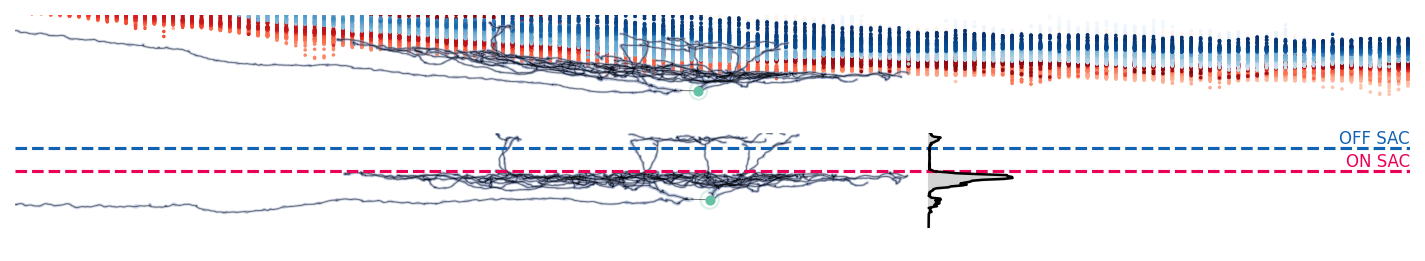
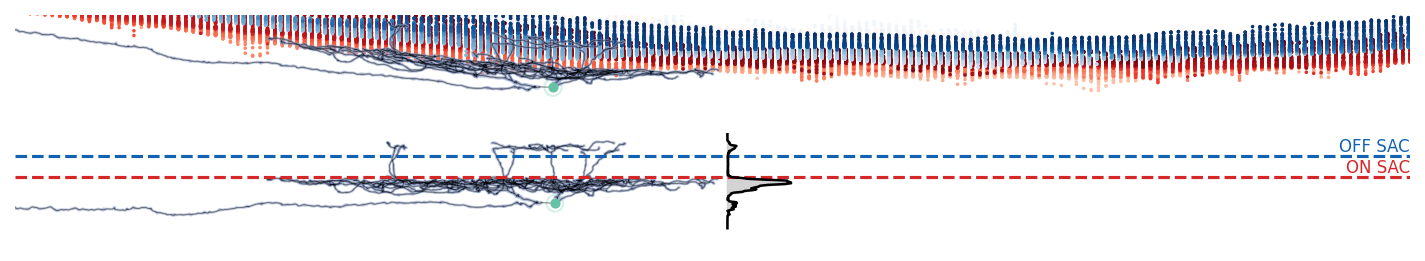
change: addressed systematic shift in warp_arbor and warp_mesh

Changed region(s): [[0.0309, 0.0307, 1.0, 0.3678], [0.0, 0.4904, 0.9881, 0.8276], [0.0, 0.1226, 0.0618, 0.1533]]

diff --git a/pywarper/arbor.py b/pywarper/arbor.py
@@ -276,6 +276,20 @@ def normalize_nodes(
     return normalized_nodes
 
 
+def surface_translation(surface_mapping: dict) -> np.ndarray:
+    """
+    Return the XY offset (np.float64[2]) that the conformal solver added.
+    Works for any mapping produced by build_mapping().
+    """
+    # mean position of the sampled patch before mapping
+    in_centre  = np.array([surface_mapping["sampled_x_idx"].mean(),
+                        surface_mapping["sampled_y_idx"].mean()])
+
+    # mean position of the same vertices after mapping
+    out_centre = surface_mapping["mapped_on"][:, :2].mean(0)
+
+    return np.hstack([in_centre - out_centre, 0])          # Δx, Δy, 0
+
 def warp_arbor(
     skel: Skeleton,
     surface_mapping: dict,
@@ -368,40 +382,44 @@ def warp_arbor(
     if verbose:
         print(f"    done in {time.time() - start_time:.2f} seconds.")
 
-    soma = skel.soma
-    soma.centre = normalized_nodes[0] * voxel_resolution  # soma is at the first node
+    # anchor the nodes to align the soma with the origin
+    xy_shift = surface_translation(surface_mapping)
+    normalized_nodes += xy_shift # shift nodes to align soma
+
+    normalized_soma = skel.soma
+    normalized_soma.centre = normalized_nodes[0] * voxel_resolution  # soma is at the first node
 
     skel_norm = Skeleton(
-        soma   = soma,                     
+        soma   = normalized_soma,
         nodes  = normalized_nodes * voxel_resolution,
         edges  = skel.edges,      # same connectivity
         radii  = skel.radii,      # same radii dict
         ntype  = skel.ntype,      # same node types (if any) 
     )
 
-
     z_profile = get_zprofile(skel_norm, z_window=zprofile_extends, nbins=zprofile_nbins)
     xy_profile = get_xyprofile(
         skel_norm, xy_window=xyprofile_extends, nbins=xyprofile_nbins, sigma_bins=xyprofile_smooth
     )
 
-    skel_norm.extra = {          # keep the pre-normed nodes for reference
-        "warped_nodes": warped_nodes * voxel_resolution,
+    skel_norm.extra = {          
+        "warped_nodes": warped_nodes * voxel_resolution, # keep the pre-normed nodes for reference
         "med_z_on":  float(med_z_on),
         "med_z_off": float(med_z_off),
         "z_profile": z_profile,
         "xy_profile": xy_profile,
+        "xy_shift": xy_shift,  # shift applied to the nodes
     }
 
     return skel_norm
 
 def warp_mesh(
-    mesh: trimesh.Trimesh,
-    surface_mapping: dict,
+    mesh: trimesh.Trimesh, # mostly nm
+    surface_mapping: dict, # mostly μm
     conformal_jump: int = 1,
     on_sac_pos: float = 0.0, # μm
     off_sac_pos: float = 12.0, # μm
-    mesh_vertices_scale: float = 1.0,
+    mesh_vertices_scale: float = 1.0, # scale factor for mesh vertices, e.g., 1e-3 for nm to μm
     verbose: bool = False,
 ) -> trimesh.Trimesh:
     """
@@ -409,19 +427,19 @@ def warp_mesh(
     of previously computed surface mappings.
     """
 
-    nodes = mesh.vertices.astype(float) * mesh_vertices_scale
+    vertices = mesh.vertices.astype(float) * mesh_vertices_scale # scale to the surface unit, which is often μm
 
     if verbose:
         print("[pywarper] Warping mesh...")
         start_time = time.time()
-    warped_nodes, med_z_on, med_z_off = warp_nodes(
-        nodes,
+    warped_vertices, med_z_on, med_z_off = warp_nodes(
+        vertices,
         surface_mapping,
         conformal_jump=conformal_jump,
     )
 
-    normalized_nodes = normalize_nodes(
-        warped_nodes,
+    normalized_vertices = normalize_nodes(
+        warped_vertices,
         med_z_on=med_z_on,
         med_z_off=med_z_off,
         on_sac_pos=on_sac_pos,
@@ -431,11 +449,13 @@ def warp_mesh(
     if verbose:
         print(f"    done in {time.time() - start_time:.2f} seconds.")
 
+    xy_shift = surface_translation(surface_mapping)
+    normalized_vertices += xy_shift # shift nodes to align soma
+
     # Create a new mesh with the warped vertices
     warped_mesh = trimesh.Trimesh(
-        vertices=normalized_nodes / mesh_vertices_scale, # rescale back to original units
+        vertices=normalized_vertices / mesh_vertices_scale, # rescale back to original units
         faces=mesh.faces,
-        vertex_normals=None,  # keep normals
         process=False,        # no processing
     )
     warped_mesh.metadata = mesh.metadata.copy()  # copy metadata
